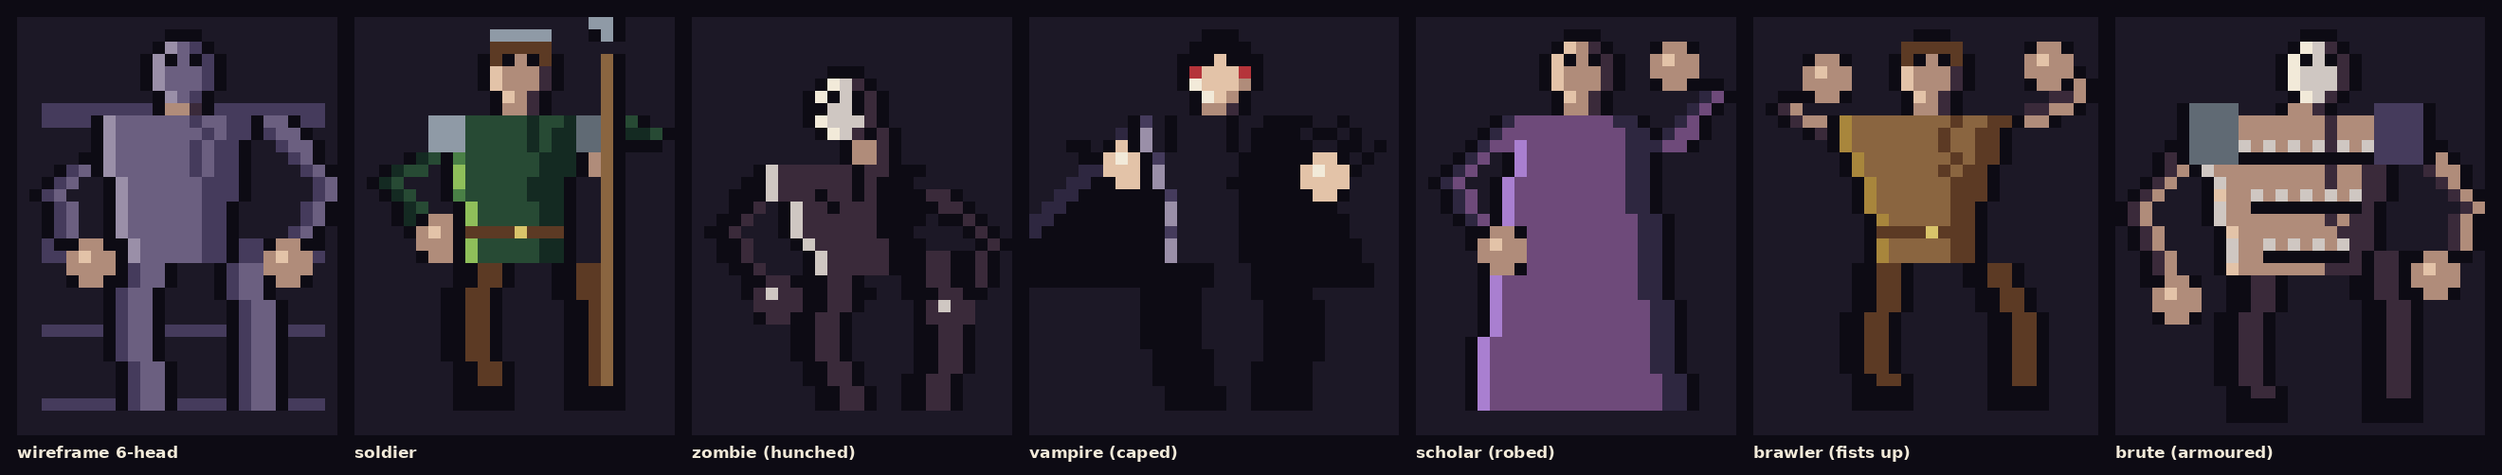
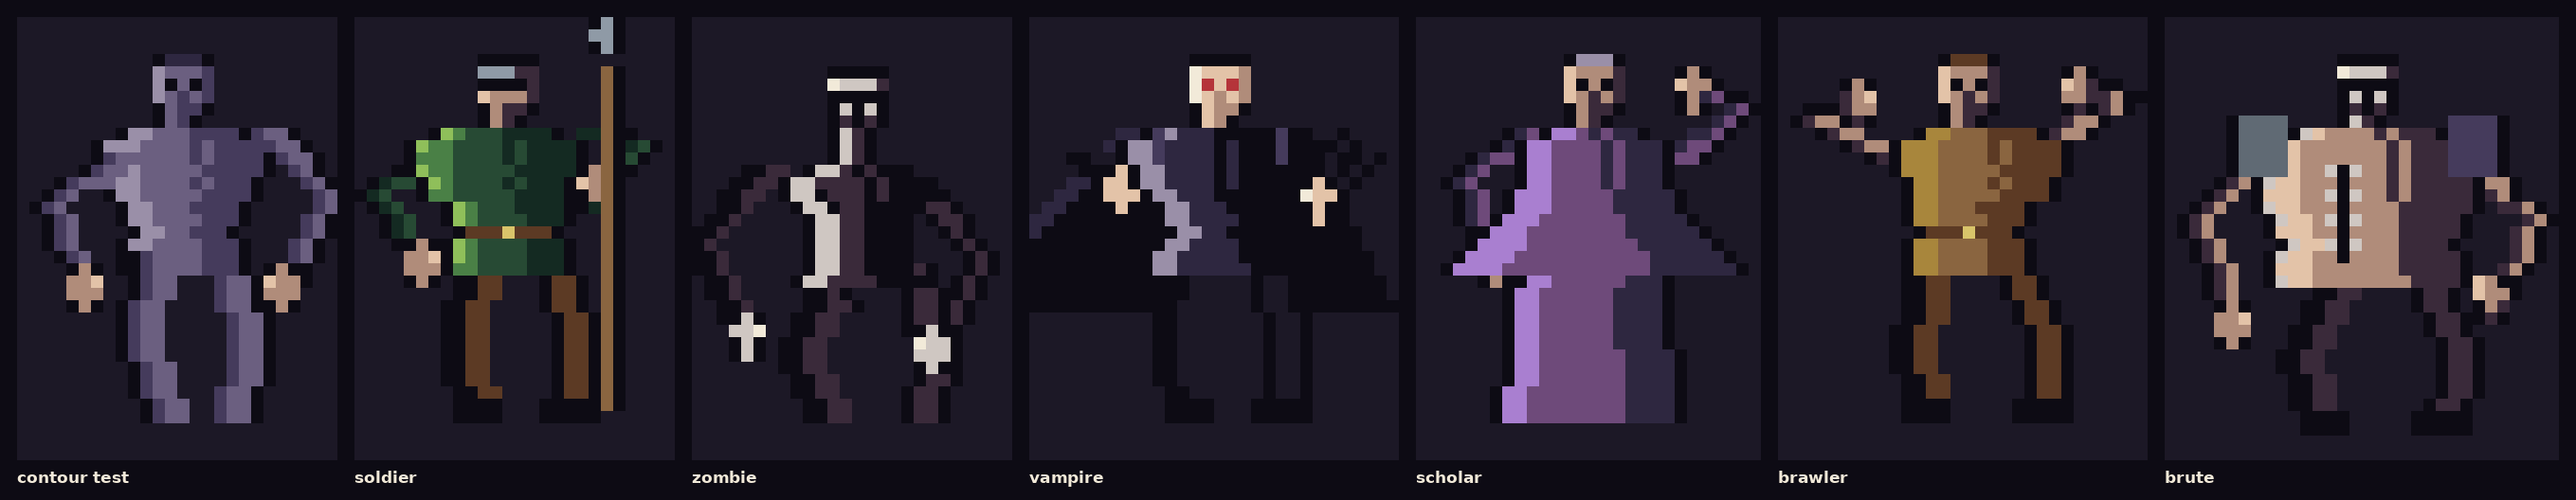
Replace generated body shapes with hand-authored contours
The bodies were quadrilaterals and the heads and hands were orbs, and both
had the same cause: the shapes were being generated rather than drawn. A
torso built by lerping shoulder width to hip width IS a trapezoid, and a
head built by narrowing a rectangle at the top and the bottom IS an egg. No
amount of shading fixes a silhouette that was produced by interpolation.

forms.py replaces the generators with authored data:

  Torsos are per-row half-width tables, read down the column — traps slope
  in at the neck, deltoids bulge, the ribcage tapers, the waist pinches, the
  hips flare back out. That S-curve is the whole difference between a person
  and a quadrilateral. Five builds: man, gaunt, hulk, robed, caped. A twist
  parameter offsets the two sides independently so the body can turn.

  Heads are explicit five-row skulls with a hair mass, a brow, two set eyes,
  a nose and a jaw that narrows only at the bottom. Five rows matters: the
  previous eight-row head made every figure 3.75 heads tall, which is the
  bobble-head look the six-head skeleton existed to prevent. They also carry
  no keyline down the sides — at 5px wide, two keyline columns leave three
  interior pixels and the eye row collapses into a visor slit, so the hair
  above and the jaw below carry the silhouette instead.

  Hands are 3x4 mittens with a thumb notch on one side, in four grips (open,
  fist, grip, point). The thumb is the entire reason it reads as a hand
[…]

diff --git a/scripts/pixelart/lab.py b/scripts/pixelart/lab.py
@@ -1,166 +1,140 @@
-"""Sprite lab: humans drawn in isolation until they stop being potatoes."""
+"""Sprite lab: humans in isolation until they stop being potatoes."""
 import sys
 sys.dont_write_bytecode = True
 sys.path.insert(0, '.')
 from engine import Canvas, PAL
-import body
+import body, forms
 from PIL import Image, ImageDraw, ImageFont
 
-def torso(cv, ox, oy, s, c, shade, hi, waist=None, belt=None, rim=None):
-    """Chest tapering to waist then flaring to hips — not a rectangle.
-
-    Light comes from the upper left throughout the set, so the left column is
-    the highlight, the right two are shadow, and an optional rim picks out the
-    lit edge. A flat single-tone torso is what made these read as cardboard.
-    """
-    for y in range(s.shoulder_y, s.hip_y + 1):
-        t = (y - s.shoulder_y) / max(1, (s.hip_y - s.shoulder_y))
-        w = s.sw + (s.hw - s.sw) * (t if waist is None else min(1, t/waist))
-        w = max(4, int(round(w)))
-        x0 = -w//2 + int(round(s.lean * (1-t)))
-        for k in range(w):
-            cv.set(ox + x0 + k, oy + y, hi if k == 0 else (shade if k >= w-2 else c))
-        # a fold: one darker column drifting across the chest
-        f = int(round(w*0.62 + 1.5*t))
-        if 0 < f < w-1: cv.set(ox + x0 + f, oy + y, shade)
-        cv.set(ox + x0 - 1, oy + y, '0'); cv.set(ox + x0 + w, oy + y, '0')
-        if rim: cv.set(ox + x0, oy + y, rim if y % 3 else hi)
-    if belt:
-        by = s.hip_y - 2
-        t = (by - s.shoulder_y) / max(1, (s.hip_y - s.shoulder_y))
-        w = max(4, int(round(s.sw + (s.hw - s.sw) * (t if waist is None else min(1, t/waist)))))
-        cv.hline(oy + by, ox - w//2, ox - w//2 + w - 1, belt)
-        cv.set(ox, oy + by, '8')
-
-def legs(cv, ox, oy, s, c, shade, stance=None, boot=None):
+def legs(cv, ox, oy, s, c, shade, stance=None, boot=None, split=1):
     (hlx, hly), (hrx, hry) = s.hips()
     (flx, fly), (frx, fry) = s.feet(stance)
-    kx_l = (hlx + flx)//2 - 1; kx_r = (hrx + frx)//2 + 1
-    body.limb(cv, ox, oy, (hlx, hly), (kx_l, s.knee_y), c, shade, w=3)
-    body.limb(cv, ox, oy, (kx_l, s.knee_y), (flx, fly), c, shade, w=3)
-    body.limb(cv, ox, oy, (hrx, hry), (kx_r, s.knee_y), c, shade, w=3)
-    body.limb(cv, ox, oy, (kx_r, s.knee_y), (frx, fry), c, shade, w=3)
+    kl = (hlx + flx)//2 - split; kr = (hrx + frx)//2 + split
+    body.limb(cv, ox, oy, (hlx, hly), (kl, s.knee_y), c, shade, w=3, outer=-1)
+    body.limb(cv, ox, oy, (kl, s.knee_y), (flx, fly), c, shade, w=3, outer=-1)
+    body.limb(cv, ox, oy, (hrx, hry), (kr, s.knee_y), c, shade, w=3, outer=+1)
+    body.limb(cv, ox, oy, (kr, s.knee_y), (frx, fry), c, shade, w=3, outer=+1)
     if boot:
-        for (fx, fy) in ((flx, fly), (frx, fry)):
+        for fx, fy in ((flx, fly), (frx, fry)):
             cv.hline(oy+fy, ox+fx-1, ox+fx+2, boot)
             cv.hline(oy+fy-1, ox+fx-1, ox+fx+2, boot)
 
-def arms(cv, ox, oy, s, c, shade, lhand, rhand, skin='n', hi='o', elbow_out=4):
+def arms(cv, ox, oy, s, c, shade, lh, rh, lk='open', rk='open',
+         skin='n', hi='o', elbow=4):
     (lx, ly), (rx, ry) = s.shoulders()
-    lel = ((lx + lhand[0])//2 - elbow_out, (ly + lhand[1])//2)
-    rel = ((rx + rhand[0])//2 + elbow_out, (ry + rhand[1])//2)
+    lel = ((lx + lh[0])//2 - elbow, (ly + lh[1])//2)
+    rel = ((rx + rh[0])//2 + elbow, (ry + rh[1])//2)
     body.limb(cv, ox, oy, (lx, ly+1), lel, c, shade, w=3, taper=1, outer=-1)
-    body.limb(cv, ox, oy, lel, lhand, c, shade, w=2, outer=-1)
+    body.limb(cv, ox, oy, lel, lh, c, shade, w=2, outer=-1)
     body.limb(cv, ox, oy, (rx, ry+1), rel, c, shade, w=3, taper=1, outer=+1)
-    body.limb(cv, ox, oy, rel, rhand, c, shade, w=2, outer=+1)
-    body.hand(cv, ox, oy, lhand[0], lhand[1]-1, skin, hi)
-    body.hand(cv, ox, oy, rhand[0], rhand[1]-1, skin, hi)
+    body.limb(cv, ox, oy, rel, rh, c, shade, w=2, outer=+1)
+    forms.hand(cv, ox, oy, lh[0], lh[1], lk, skin, shade, hi, flip=True)
+    forms.hand(cv, ox, oy, rh[0], rh[1], rk, skin, shade, hi)
+
+def seat_head(cv, ox, oy, s, kind, **kw):
+    """Neck first, then the skull sitting on it."""
+    body.neck(cv, ox, oy, 0, s.chin, s.shoulder_y, kw.get('skin','n'), kw.get('shade','m'))
+    forms.head(cv, ox, oy, 0, 0, kind, **kw)
 
 FIGS = {}
-def fig(name):
-    def d(f): FIGS[name] = f; return f
+def fig(n):
+    def d(f): FIGS[n] = f; return f
     return d
 
-@fig("wireframe 6-head")
+@fig("contour test")
 def _():
-    cv = Canvas(26, 34, fill='1'); s = body.Skel(30); ox, oy = 13, 2
-    for y in (s.chin, s.shoulder_y, s.pelvis_y, s.hip_y, s.knee_y, s.foot_y):
-        cv.hline(oy+y, ox-11, ox+11, '3')
+    cv = Canvas(26, 36, fill='1'); s = body.Skel(30); ox, oy = 13, 3
+    forms.torso(cv, ox, oy, s, 'man', '4', '3', '5')
     legs(cv, ox, oy, s, '4', '3')
     arms(cv, ox, oy, s, '4', '3', (-8, s.hip_y+1), (8, s.hip_y+1))
-    torso(cv, ox, oy, s, '4', '3', '5')
-    body.neck(cv, ox, oy, 0, s.chin, s.shoulder_y); body.head(cv, ox, oy, 0, 0, s.head_h, '4', '3', '5')
+    seat_head(cv, ox, oy, s, 'man', skin='4', shade='3', hi='5', hair='2')
     return cv
 
 @fig("soldier")
 def _():
-    cv = Canvas(26, 34, fill='1'); s = body.Skel(30, weight=+1, lean=0); ox, oy = 13, 2
-    legs(cv, ox, oy, s, 'k', '0', stance=4, boot='0')
-    arms(cv, ox, oy, s, 'h', 'r', (-7, s.hip_y-1), (6, s.shoulder_y+3))
-    torso(cv, ox, oy, s, 'h', 'r', 'i', waist=0.7, belt='k', rim='j')
-    for y in range(s.shoulder_y, s.shoulder_y+3):      # pauldrons
-        cv.hline(oy+y, ox-7, ox-5, 't'); cv.hline(oy+y, ox+5, ox+7, 's')
-    body.neck(cv, ox, oy, 0, s.chin, s.shoulder_y); body.head(cv, ox, oy, 0, 0, s.head_h, 'n', 'm', 'o', hair='k')
-    for x in range(-2, 3): cv.set(ox+x, oy-1, 't')     # helm brim
-    cv.vline(ox+7, oy+1, oy+s.foot_y-2, 'l')           # spear
-    cv.vline(ox+8, oy+1, oy+s.foot_y-2, '0')
-    cv.stamp(ox+6, oy-3, ["0t0","tt0","0t0"])
+    cv = Canvas(26, 36, fill='1'); s = body.Skel(30, weight=+1); ox, oy = 12, 3
+    legs(cv, ox, oy, s, 'k', '0', stance=3, boot='0')
+    arms(cv, ox, oy, s, 'h', 'r', (-7, s.hip_y-1), (7, s.shoulder_y+4),
+         lk='open', rk='grip')
+    forms.torso(cv, ox, oy, s, 'man', 'h', 'r', 'i', rim='j', belt='k', twist=1)
+    seat_head(cv, ox, oy, s, 'helm', skin='n', shade='m', hi='o', hair='k')
+    cv.vline(ox+8, oy+1, oy+s.foot_y-1, 'l'); cv.vline(ox+9, oy+1, oy+s.foot_y-1, '0')
+    cv.stamp(ox+7, oy-3, ["0t0","tt0","0t0"])
     return cv
 
-@fig("zombie (hunched)")
+@fig("zombie")
 def _():
-    cv = Canvas(26, 34, fill='1'); s = body.Skel(28, weight=-1, lean=-2); ox, oy = 14, 4
-    s.shoulder_y += 2                                   # slumped shoulders
-    legs(cv, ox, oy, s, 'm', '0', stance=3)
-    arms(cv, ox, oy, s, 'm', '0', (-8, s.hip_y+3), (6, s.hip_y+4), skin='m', hi='6')
-    torso(cv, ox, oy, s, 'm', '0', '6', waist=0.9, rim='6')
-    body.neck(cv, ox, oy, 0, s.chin, s.shoulder_y); body.head(cv, ox, oy, -2, 1, s.head_h, '6', 'm', '7')
-    cv.set(ox-4, oy+3, '0'); cv.set(ox-1, oy+3, '0')
-    for (x, y) in ((-4,10),(2,13),(-1,17)):             # torn flesh
+    cv = Canvas(26, 36, fill='1'); s = body.Skel(29, weight=-1, lean=-2); ox, oy = 13, 4
+    s.shoulder_y += 2
+    legs(cv, ox, oy, s, 'm', '0', stance=3, split=2)
+    arms(cv, ox, oy, s, 'm', '0', (-9, s.hip_y+4), (6, s.hip_y+5),
+         lk='point', rk='open', skin='6', hi='7')
+    forms.torso(cv, ox, oy, s, 'gaunt', 'm', '0', '6', rim='6', twist=-2)
+    seat_head(cv, ox, oy, s, 'skull', skin='6', shade='m', hi='7', hair='m')
+    for x, y in ((-3,10),(2,14),(-1,18)):
         cv.set(ox+x, oy+y, '0'); cv.set(ox+x+1, oy+y+1, '0')
     return cv
 
-@fig("vampire (caped)")
+@fig("vampire")
 def _():
-    cv = Canvas(30, 34, fill='1'); s = body.Skel(30, weight=+1); ox, oy = 15, 2
-    for i in range(14):                                 # cape, asymmetric flare
-        cv.hline(oy+s.shoulder_y+i, ox-7-i, ox-5, '0')
-        cv.hline(oy+s.shoulder_y+i, ox-7-i, ox-6-i, '2')
-        cv.hline(oy+s.shoulder_y+i, ox+5, ox+6+i//2, '0')
-    legs(cv, ox, oy, s, '0', '0', stance=3)
-    arms(cv, ox, oy, s, '1', '0', (-8, s.shoulder_y+4), (8, s.shoulder_y+5), skin='o', hi='7')
-    torso(cv, ox, oy, s, '1', '0', '3', waist=0.6, rim='5')
-    body.neck(cv, ox, oy, 0, s.chin, s.shoulder_y); body.head(cv, ox, oy, 0, 0, s.head_h, 'o', 'n', '7', hair='0')
-    cv.set(ox-2, oy+2, 'b'); cv.set(ox+2, oy+2, 'b')    # red eyes
-    for y in range(s.shoulder_y, s.shoulder_y+3):       # high collar
-        cv.set(ox-4, oy+y, '0'); cv.set(ox+4, oy+y, '0')
+    cv = Canvas(30, 36, fill='1'); s = body.Skel(30, weight=+1); ox, oy = 15, 3
+    for i in range(15):                       # cape behind, asymmetric
+        cv.hline(oy+s.shoulder_y+i, ox-8-i, ox-5, '0')
+        cv.hline(oy+s.shoulder_y+i, ox-8-i, ox-7-i, '2')
+        cv.hline(oy+s.shoulder_y+i, ox+5, ox+7+i//2, '0')
+    legs(cv, ox, oy, s, '1', '0', stance=3, boot='0')
+    arms(cv, ox, oy, s, '1', '0', (-8, s.shoulder_y+4), (8, s.shoulder_y+5),
+         lk='open', rk='point', skin='o', hi='7')
+    forms.torso(cv, ox, oy, s, 'caped', '2', '0', '5', rim='5', twist=1)
+    seat_head(cv, ox, oy, s, 'man', skin='o', shade='n', hi='7', hair='0', eye='b')
+    for y in range(s.shoulder_y, s.shoulder_y+3):
+        cv.set(ox-5, oy+y, '3'); cv.set(ox+5, oy+y, '3')
     return cv
 
-@fig("scholar (robed)")
+@fig("scholar")
 def _():
-    cv = Canvas(26, 34, fill='1'); s = body.Skel(30, weight=-1); ox, oy = 13, 2
-    arms(cv, ox, oy, s, 'p', '2', (-7, s.hip_y), (7, s.shoulder_y-4), skin='n', hi='o')
-    for y in range(s.shoulder_y, s.foot_y+1):           # robe widens to the floor
-        t = (y - s.shoulder_y)/(s.foot_y - s.shoulder_y)
-        w = int(round(s.sw*0.85 + 7*t))
+    cv = Canvas(28, 36, fill='1'); s = body.Skel(30, weight=-1); ox, oy = 14, 3
+    arms(cv, ox, oy, s, 'p', '2', (-8, s.hip_y-1), (8, s.shoulder_y-4),
+         lk='open', rk='point', skin='n', hi='o')
+    forms.torso(cv, ox, oy, s, 'robed', 'p', '2', 'q', rim='q')
+    for y in range(s.hip_y+1, s.foot_y+1):    # robe skirt to the floor
+        t = (y - s.hip_y)/(s.foot_y - s.hip_y); w = int(round(11 + 3*t))
         for k in range(w):
-            cv.set(ox - w//2 + k, oy+y, 'q' if k == 0 else ('p' if k < w-2 else '2'))
+            d = k/(w-1)
+            cv.set(ox - w//2 + k, oy+y, 'q' if d < 0.15 else ('2' if d > 0.72 else 'p'))
         cv.set(ox-w//2-1, oy+y, '0'); cv.set(ox-w//2+w, oy+y, '0')
-    arms(cv, ox, oy, s, 'p', '2', (-7, s.hip_y), (7, s.shoulder_y-4), skin='n', hi='o')
-    body.neck(cv, ox, oy, 0, s.chin, s.shoulder_y); body.head(cv, ox, oy, 0, 0, s.head_h, 'n', 'm', 'o')
+    seat_head(cv, ox, oy, s, 'man', skin='n', shade='m', hi='o', hair='5')
     return cv
 
-@fig("brawler (fists up)")
+@fig("brawler")
 def _():
-    cv = Canvas(28, 34, fill='1'); s = body.Skel(30, weight=+1, shoulder_w=14); ox, oy = 14, 2
-    legs(cv, ox, oy, s, 'k', '0', stance=5, boot='0')
+    cv = Canvas(30, 36, fill='1'); s = body.Skel(30, weight=+1); ox, oy = 15, 3
+    legs(cv, ox, oy, s, 'k', '0', stance=4, boot='0')
     arms(cv, ox, oy, s, 'n', 'm', (-9, s.shoulder_y-3), (9, s.shoulder_y-4),
-         skin='n', hi='o', elbow_out=4)
-    torso(cv, ox, oy, s, 'l', 'k', '9', waist=0.75, belt='k')
-    body.neck(cv, ox, oy, 0, s.chin, s.shoulder_y); body.head(cv, ox, oy, 0, 0, s.head_h, 'n', 'm', 'o', hair='k')
+         lk='fist', rk='fist', skin='n', hi='o', elbow=5)
+    forms.torso(cv, ox, oy, s, 'man', 'l', 'k', '9', belt='k', twist=-1)
+    seat_head(cv, ox, oy, s, 'man', skin='n', shade='m', hi='o', hair='k')
     return cv
 
-@fig("brute (armoured)")
+@fig("brute")
 def _():
-    cv = Canvas(30, 34, fill='1'); s = body.Skel(31, weight=-1, shoulder_w=17, hip_w=11)
-    ox, oy = 15, 2
-    legs(cv, ox, oy, s, 'm', '0', stance=5, boot='0')
-    arms(cv, ox, oy, s, 'n', 'm', (-11, s.hip_y+3), (10, s.hip_y+1), skin='n', hi='o')
-    torso(cv, ox, oy, s, 'n', 'm', 'o', waist=0.95, rim='6')
-    for y in range(s.shoulder_y-1, s.shoulder_y+4):     # heavy shoulder plates
-        cv.hline(oy+y, ox-9, ox-6, 's'); cv.hline(oy+y, ox+6, ox+9, '3')
-        cv.set(ox-10, oy+y, '0'); cv.set(ox+10, oy+y, '0')
-    body.neck(cv, ox, oy, 0, s.chin, s.shoulder_y); body.head(cv, ox, oy, 1, 0, s.head_h, '6', 'm', '7')
-    for i, y in enumerate(range(s.shoulder_y+3, s.hip_y, 4)):   # stitches, tapering
-        w = 5 - i
-        cv.hline(oy+y, ox-w, ox+w, '0')
-        for x in range(-w, w+1, 2): cv.set(ox+x, oy+y-1, '6')
+    cv = Canvas(32, 36, fill='1'); s = body.Skel(31, weight=-1); ox, oy = 16, 3
+    legs(cv, ox, oy, s, 'm', '0', stance=4, boot='0', split=2)
+    arms(cv, ox, oy, s, 'n', 'm', (-11, s.hip_y+3), (10, s.hip_y+1),
+         lk='open', rk='grip', skin='n', hi='o', elbow=5)
+    forms.torso(cv, ox, oy, s, 'hulk', 'n', 'm', 'o', rim='6')
+    for y in range(s.shoulder_y-1, s.shoulder_y+4):
+        cv.hline(oy+y, ox-10, ox-7, 's'); cv.hline(oy+y, ox+7, ox+10, '3')
+        cv.set(ox-11, oy+y, '0'); cv.set(ox+11, oy+y, '0')
+    for y in range(s.shoulder_y+3, s.hip_y - 1):        # one seam, off-centre
+        cv.set(ox-2, oy+y, '0')
+        if y % 2: cv.set(ox-3, oy+y, '6'); cv.set(ox-1, oy+y, '6')
+    seat_head(cv, ox, oy, s, 'skull', skin='6', shade='m', hi='7', hair='m')
     return cv
 
 def render(path, scale=13):
-    names = list(FIGS)
     ims = []
-    for n in names:
+    for n in FIGS:
         cv = FIGS[n]()
         im = Image.new('RGB', (cv.w, cv.h), (0x14,0x11,0x1c)); p = im.load()
         for y in range(cv.h):

diff --git a/scripts/pixelart/forms.py b/scripts/pixelart/forms.py
@@ -1,0 +1,104 @@
+"""Hand-authored body contours. No interpolation, no primitives.
+
+A torso built by lerping shoulder-width to hip-width is a quadrilateral, and
+a head or hand built by narrowing a rectangle at both ends is an orb. Neither
+is what a body looks like. These are explicit per-row half-width tables and
+explicit pixel stamps, so the silhouette carries deltoid bulge, rib taper,
+waist pinch and hip flare — and a skull carries a brow, a cheek and a jaw.
+"""
+
+# ── Torso half-widths, shoulder row → hip row ────────────────────────
+# Read down the column: traps slope in at the neck, deltoids bulge, ribcage
+# tapers, waist pinches, hips flare back out. That S-curve is the whole
+# difference between a person and a trapezoid.
+TORSO = {
+ 'man':    [4,6,6,6,5,5,4,4,3,4,4,4],
+ 'gaunt':  [3,5,5,4,4,3,3,3,2,3,3,4],
+ 'hulk':   [5,8,9,9,8,8,7,7,6,7,7,7],
+ 'robed':  [3,5,5,5,5,6,6,7,8,9,10,11],
+ 'caped':  [4,6,6,5,5,4,4,4,3,4,5,5],
+}
+
+def sample(prof, t):
+    """Read a profile at 0..1 with linear blend between authored rows."""
+    f = t * (len(prof) - 1)
+    i = int(f); frac = f - i
+    if i >= len(prof) - 1: return prof[-1]
+    return prof[i] * (1 - frac) + prof[i + 1] * frac
+
+def torso(cv, ox, oy, s, kind, c, shade, hi, rim=None, belt=None, twist=0):
+    """Draw a torso from its authored contour. `twist` offsets the two sides
+    by different amounts, so the body turns instead of standing flat-on."""
+    prof = TORSO[kind]
+    n = s.hip_y - s.shoulder_y + 1
+    for i in range(n):
+        t = i / max(1, n - 1)
+        hw = sample(prof, t)
+        lean = s.lean * (1 - t)
+        xl = int(round(-hw + lean - twist * (1 - t)))
+        xr = int(round( hw + lean - twist * (1 - t)))
+        y = s.shoulder_y + i
+        for x in range(xl, xr + 1):
+            d = (x - xl) / max(1, (xr - xl))
+            cv.set(ox + x, oy + y, hi if d < 0.18 else (shade if d > 0.72 else c))
+        # a fold that drifts, so the front isn't a flat field
+        f = int(round(xl + (xr - xl) * (0.58 + 0.18 * t)))
+        cv.set(ox + f, oy + y, shade)
+        cv.set(ox + xl - 1, oy + y, '0'); cv.set(ox + xr + 1, oy + y, '0')
+        if rim and i % 3 != 2: cv.set(ox + xl, oy + y, rim)
+    if belt:
+        i = n - 4
+        t = i / max(1, n - 1); hw = sample(prof, t)
+        xl = int(round(-hw + s.lean * (1 - t))); xr = int(round(hw + s.lean * (1 - t)))
+        cv.hline(oy + s.shoulder_y + i, ox + xl, ox + xr, belt)
+        cv.set(ox + (xl + xr)//2, oy + s.shoulder_y + i, '8')
+
+# ── Heads: skulls, not ellipses ──────────────────────────────────────
+# Flat crown under the hair mass, straight temples, one cheek step, and a
+# jaw that narrows only at the bottom. Narrowing top AND bottom is an egg.
+# '.' transparent  H hair  s skin  h highlight  d shadow  e eye  0 keyline
+HEADS = {
+ # FIVE rows, restoring the six-head model at 30px. Note there is no keyline
+ # down the sides: at 5px wide, two keyline columns leave three interior
+ # pixels and the eye row collapses into a visor slit. The hair mass above
+ # and the jaw below carry the silhouette instead, and against these dark
+ # backgrounds a lit face reads on its own.
+ # H hair  s skin  h highlight  d shadow  e eye  n nose  t steel
+ 'man':    ["0HHH0", "hsssd", "hesed", "hsnsd", "0sdd0"],
+ 'woman':  ["HHHHH", "Hsssd", "Hesed", "Hsnsd", "H0dd0"],
+ 'bald':   ["0sss0", "hsssd", "hesed", "hsnsd", "0sdd0"],
+ 'skull':  ["00000", "hsssd", "0e0e0", "0s0s0", "0d0d0"],
+ 'hooded': ["0HHH0", "HH0HH", "H000H", "HH0HH", "0HHH0"],
+ 'helm':   ["00000", "tttdd", "0e0ed", "hsssd", "0sdd0"],
+}
+
+def head(cv, ox, oy, x, y, kind='man', skin='n', shade='m', hi='o',
+         hair='k', eye='0', flip=False):
+    art = HEADS[kind]
+    key = {'H': hair, 's': skin, 'h': hi, 'd': shade, 'e': eye,
+           'n': shade, 't': 't', '0': '0'}
+    w = len(art[0])
+    for dy, row in enumerate(art):
+        if flip: row = row[::-1]
+        for dx, ch in enumerate(row):
+            if ch == '.': continue
+            cv.set(ox + x - w//2 + dx, oy + y + dy, key.get(ch, ch))
+
+def head_h(kind='man'): return len(HEADS[kind])
+
+# ── Hands: mittens with a thumb, not orbs ────────────────────────────
+# 3x4. The thumb notch on one side is the entire reason it reads as a hand.
+HANDS = {
+ 'open':  ["0s0", "hss", "sss", "0s0"],
+ 'fist':  ["0s0", "hsd", "ssd", "0d0"],
+ 'grip':  ["ts0", "hss", "0sd", "0d0"],     # closed round a shaft
+ 'point': ["0s0", "hss", "0sd", "0s0"],
+}
+def hand(cv, ox, oy, x, y, kind='open', skin='n', shade='m', hi='o', flip=False):
+    art = HANDS[kind]
+    key = {'s': skin, 'd': shade, 'h': hi, 't': hi, '0': '0'}
+    for dy, row in enumerate(art):
+        if flip: row = row[::-1]
+        for dx, ch in enumerate(row):
+            if ch == '.': continue
+            cv.set(ox + x - 1 + dx, oy + y - 1 + dy, key.get(ch, ch))

diff --git a/scripts/pixelart/body.py b/scripts/pixelart/body.py
@@ -28,7 +28,7 @@ class Skel:
         self.knee_y     = round(h * 0.78)
         self.foot_y     = h - 1
         self.sw = shoulder_w if shoulder_w else round(hd * 2.4)   # ~2.4 heads wide
-        self.hw = hip_w if hip_w else round(hd * 1.7)
+        self.hw = hip_w if hip_w else max(4, round(hd * 1.3))
         # contrapposto: hips tilt toward the weighted leg, shoulders counter it
         self.hip_tilt      = +1 * weight
         self.shoulder_tilt = -1 * weight
@@ -43,7 +43,7 @@ class Skel:
         h = self.hw // 2
         return ((-h, self.hip_y - self.hip_tilt), (h, self.hip_y + self.hip_tilt))
     def feet(self, stance=None):
-        s = stance if stance is not None else max(2, self.hw // 2)
+        s = stance if stance is not None else max(2, self.hw // 2 - 1)
         return ((-s, self.foot_y), (s + 1, self.foot_y))
 
 def limb(cv, ox, oy, a, b, c, shade, w=2, taper=0, outer=0):
@@ -82,7 +82,7 @@ def head(cv, ox, oy, x, y, hd, skin='n', shade='m', hi='o', hair=None, eyes='0')
             cv.set(ox+xx, oy+y, hair)
         cv.set(ox+x-w//2, oy+y+1, hair); cv.set(ox+x+w//2, oy+y+1, hair)
 
-def neck(cv, ox, oy, x, chin, shoulder_y, skin='n', shade='m', w=3):
+def neck(cv, ox, oy, x, chin, shoulder_y, skin='n', shade='m', w=2):
     """Close the gap between jaw and chest — a floating head reads as a mask."""
     for yy in range(chin, shoulder_y):
         for k in range(w):
